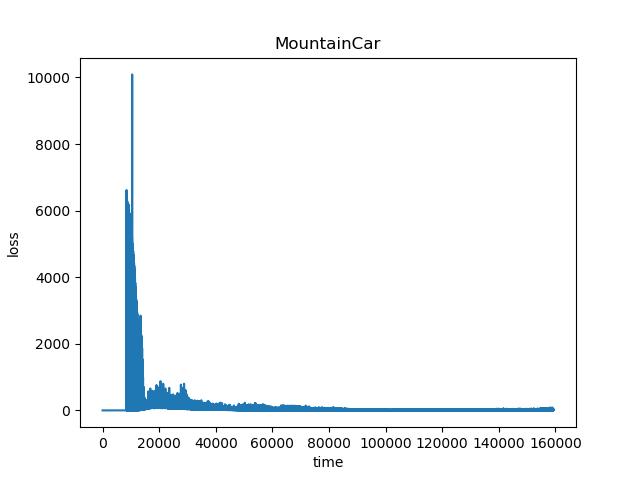
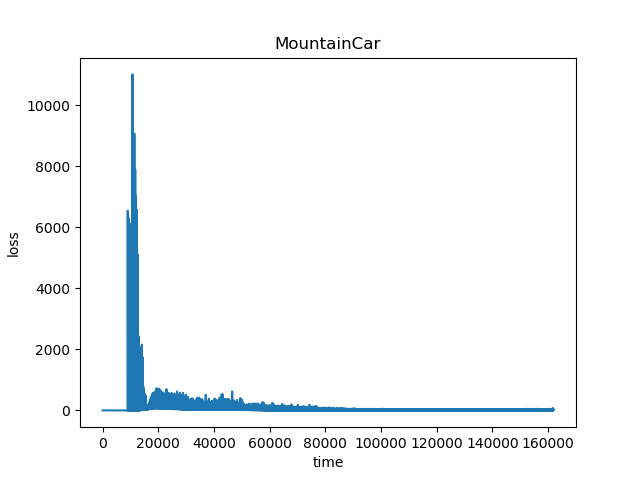
DoubleDQN failed & debugging

diff --git a/A4/A4.py b/A4/A4.py
@@ -33,14 +33,13 @@ class Enviroment:
         if done:
             reward = 1000
         else:
-            #reward = self.height(state[0]) + state[1]
-            reward = self.height(state[0])
+            reward = self.height(state[0]) + state[1]
             if state[0] > self.env.goal_position - 0.1 and state[1] > 0.0:
                 reward += 1.0
         return state, reward, done, info
     
     def height(self, xs):
-        return np.sin(3 * xs)*.45+.55
+        return np.sin(3 * xs) * .45 + .55
 
     def getActionSpace(self):
         return self.env.action_space
@@ -75,7 +74,7 @@ class Enviroment:
         self.env.close()
 
 class Agent:
-    def __init__(self, actionSpace, observationSpace, gamma, epsilon, batchSize, lr, hiddenSize, updateStride):
+    def __init__(self, actionSpace, observationSpace, gamma, epsilon, tau, batchSize, lr, hiddenSize, updateStride):
         self.actionSpace = actionSpace
         self.actionNum = actionSpace.n
         self.actionSpace = [i for i in range(self.actionNum)]
@@ -85,6 +84,7 @@ class Agent:
         self.EPS_START = epsilon[0]
         self.EPS_END = epsilon[1]
         self.EPS_DECAY = epsilon[2]
+        self.tau = tau
         self.batchSize = batchSize
         self.lr = lr
         self.hiddenSize = hiddenSize
@@ -106,9 +106,6 @@ class Agent:
     
     def epsilonDecay(self, N):
         self.epsilon = self.EPS_END + (self.EPS_START - self.EPS_END) * math.exp(-1.0 * N / self.EPS_DECAY)
-        # if N >= 10000:
-            # self.epsilon = self.EPS_END + (self.EPS_START - self.EPS_END) * math.exp(-1.0 * (N - 10000) / self.EPS_DECAY)
-
 
     def optimzeDQN(self, buf):
         if len(buf) < self.batchSize:
@@ -122,8 +119,31 @@ class Agent:
         nextStateBatch = torch.cat(batch.nextState) # batchSize * stateSpace.shape[0]
         doneBatch = torch.cat(batch.done) # batchSize * 1
 
+        Q = self.net(stateBatch).gather(1, actionBatch)  # get Q(s_t, a)
+        targetQ = self.targetNet(nextStateBatch).max(1)[0].view(-1, 1) # max_a Q'(s_t+1, a)
+        y = (targetQ * self.gamma) * doneBatch + rewardBatch
+        loss = F.mse_loss(Q, y)
+
+        self.optimizer.zero_grad()
+        loss.backward()
+        self.optimizer.step()
+        return loss.item()
+    
+    def optimzeDDQN(self, buf):
+        if len(buf) < self.batchSize:
+            print("Can't fetch enough exp!")
+            return
+        exps = buf.sample(self.batchSize)
+        batch = Exp(*zip(*exps))  # batch => Exp of batch
+        stateBatch = torch.cat(batch.state) # batchSize * stateSpace.shape[0]
+        actionBatch = torch.cat(batch.action) # batchSize * 1
+        rewardBatch = torch.cat(batch.reward) # batchSize * 1
+        nextStateBatch = torch.cat(batch.nextState) # batchSize * stateSpace.shape[0]
+        doneBatch = torch.cat(batch.done) # batchSize * 1
+
         Q = self.net(stateBatch).gather(1, actionBatch)  # get Q(s, a)
-        targetQ = self.targetNet(nextStateBatch).max(1)[0].view(-1, 1)
+        targetAction = self.targetNet(nextStateBatch).max(1)[1].view(-1, 1)  # get argmax Q'(s_t+1, a)
+        targetQ = self.net(nextStateBatch).gather(1, targetAction)
         y = (targetQ * self.gamma) * doneBatch + rewardBatch
         loss = F.mse_loss(Q, y)
 
@@ -173,6 +193,49 @@ class Agent:
         torch.save(self.net.state_dict(), 'net.pkl')
         torch.save(self.targetNet.state_dict(), 'targetNet.pkl')
 
+    def DoubleDeepQLearning(self, env, buf, episodeNum, ifDecay=True):
+        totalN = 0
+        scores = []
+        steps = []
+        losses = []
+        self.targetNet.load_state_dict(self.net.state_dict())
+        for i in range(episodeNum):
+            score = 0.0
+            rewardDecay = 1.0
+            state = env.reset()
+            for t in count():
+                env.render()
+                action = self.getAction(torch.tensor(state.reshape(1, self.stateSize), device=device, dtype=torch.float))
+                nextState, reward, done, _ = env.step(action.item())
+                buf.push(torch.tensor(state.reshape(1, self.stateSize), device=device, dtype=torch.float),
+                          action,
+                          torch.tensor([[reward]], device=device, dtype=torch.float),
+                          torch.tensor(nextState.reshape(1, self.stateSize), device=device, dtype=torch.float),
+                          torch.tensor([[not done]], device=device, dtype=torch.long))
+                state = nextState
+                score += rewardDecay * reward
+                rewardDecay *= self.gamma
+                loss = self.optimzeDDQN(buf)
+                losses.append(loss)
+                if ifDecay:
+                    self.epsilonDecay(totalN)
+                totalN += 1
+                if totalN % self.updateStride == 0:
+                    self.targetNet.load_state_dict(self.net.state_dict())
+                    # for targetParam, param in zip(self.targetNet.parameters(), self.net.parameters()):
+                    #     targetParam.data.copy_(self.tau * targetParam + (1 - self.tau) * param)
+                if done or t + 1 >= env.max_episode_steps:
+                    scores.append(score)
+                    steps.append(t + 1)
+                    print("Episode %d ended after %d timesteps with score %f, epsilon=%f" % (i + 1, t + 1, score, self.epsilon))
+                    break
+        
+        np.save('DDQN_score', scores)
+        np.save('DDQN_step', steps)
+        np.save('DDQN_loss',losses)
+        torch.save(self.net.state_dict(), 'net.pkl')
+        torch.save(self.targetNet.state_dict(), 'targetNet.pkl')
+
 class ReplayBuffer:
     def __init__(self, capacity):
         self.capacity = capacity
@@ -218,9 +281,6 @@ class DQN(nn.Module):
         self.fc3 = nn.Linear(hiddenSize, outputSize)
 
     def forward(self, x):
-        # x = F.sigmoid(self.fc1(x))
-        # x = F.sigmoid(self.fc2(x))
-        # x = F.sigmoid(self.fc3(x))
         x = F.leaky_relu(self.fc1(x))
         x = F.leaky_relu(self.fc2(x))
         x = F.leaky_relu(self.fc3(x))
@@ -286,19 +346,21 @@ def draw(episodeNum, methodName, suffix, filterSize):
     
 def main():
     env = Enviroment(maxSteps=500)
-    buf = ReplayBuffer(capacity=10000)
+    buf = ReplayBuffer(capacity=100000)
     buf.fill(env, initLen=1000)
     agt = Agent(env.getActionSpace(),
                 env.getObservationSpace(),
                 gamma=0.99,
-                epsilon=[0.1, None, None],
-                # epsilon=[0.9, 0.1, 10000],
+                # epsilon=[0.1, None, None],
+                epsilon=[0.9, 0.1, 10000],
+                tau=0.01,
                 batchSize=128,
                 lr=0.0001,
                 hiddenSize=256,
                 updateStride=5)
-    agt.DeepQLearning(env, buf, episodeNum=1000, ifDecay=False)
-    draw(1000, 'DQN', '', 50)
+    # agt.DeepQLearning(env, buf, episodeNum=1000, ifDecay=False)
+    #agt.DoubleDeepQLearning(env, buf, episodeNum=1000, ifDecay=True)
+    draw(1000, 'DDQN', '', 50)
     env.close()
 
 if __name__ == "__main__":
